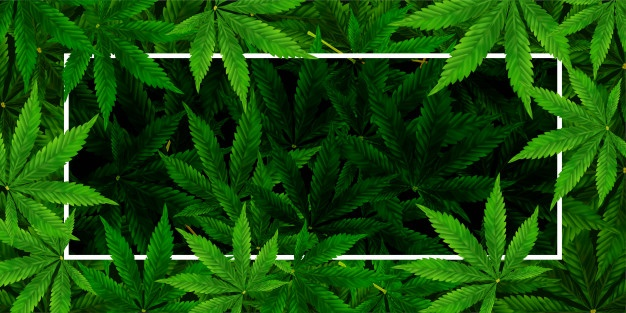
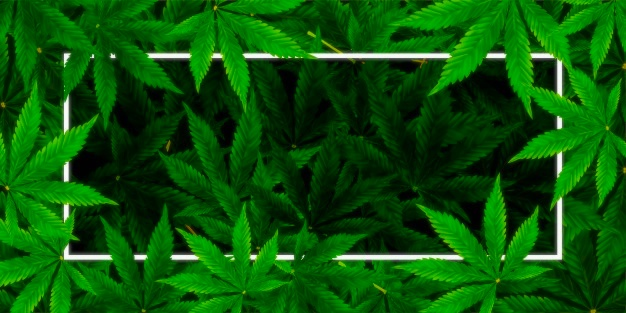
adds new background image to explore heading

diff --git a/explore.html b/explore.html
@@ -54,7 +54,7 @@
                                 <li class="breadcrumb-item active" aria-current="page">Current Page</li>
                             </ol>
                         </nav>
-                        <h1 class="display-4">Page Title</h1>
+                        <h1 class="display-4">Explore</h1>
                         <p class="lead mb-0">Include a brief description of your page here to provide the user with
                             a little more context</p>
                     </div>

diff --git a/explore.css b/explore.css
@@ -4,6 +4,11 @@ html,body{
 }
 
 .bg-image{
-    background-image: url('images/marijuana-cannabis-leaf-background-realistic-illustration-plant-top-view_38359-197.jpg');
+    opacity: ;
+    background-image: url('images/mj.jpg');
     background-size: cover;
+}
+
+h1{
+    color: white;
 }
